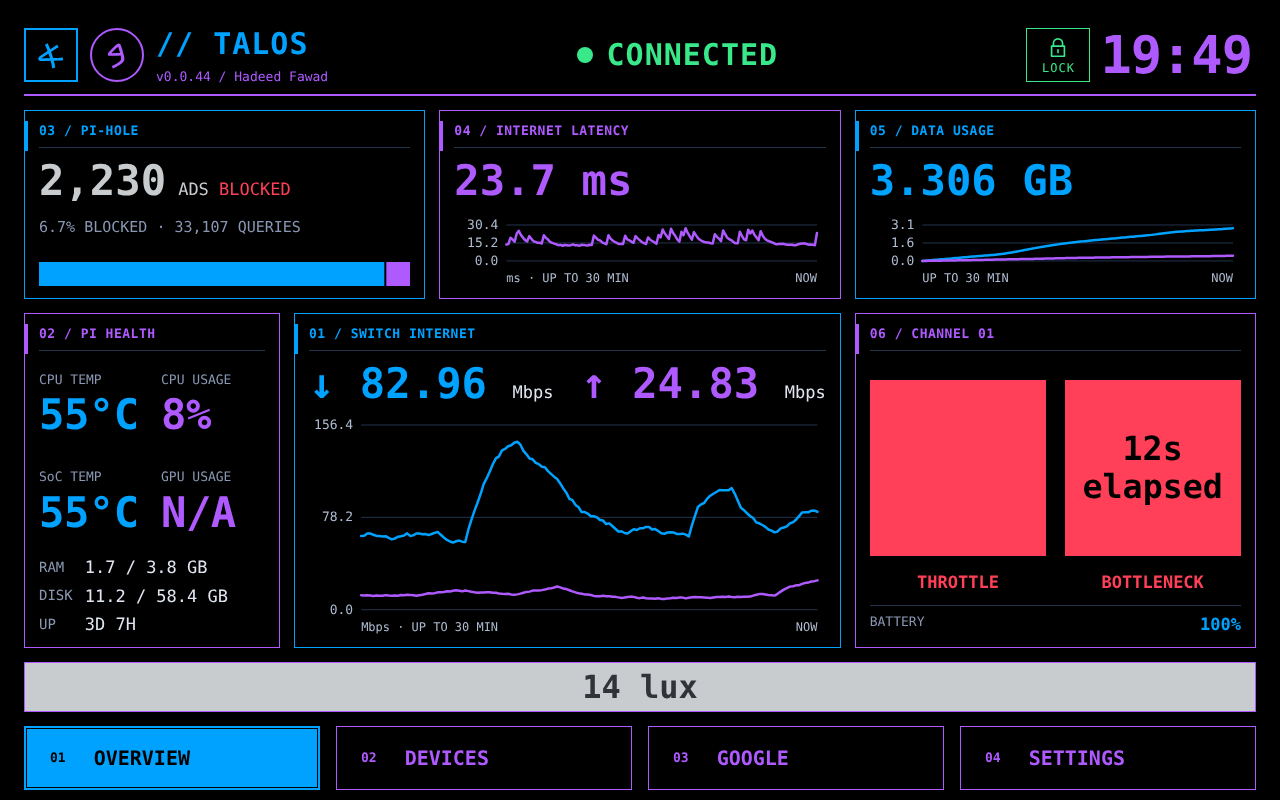
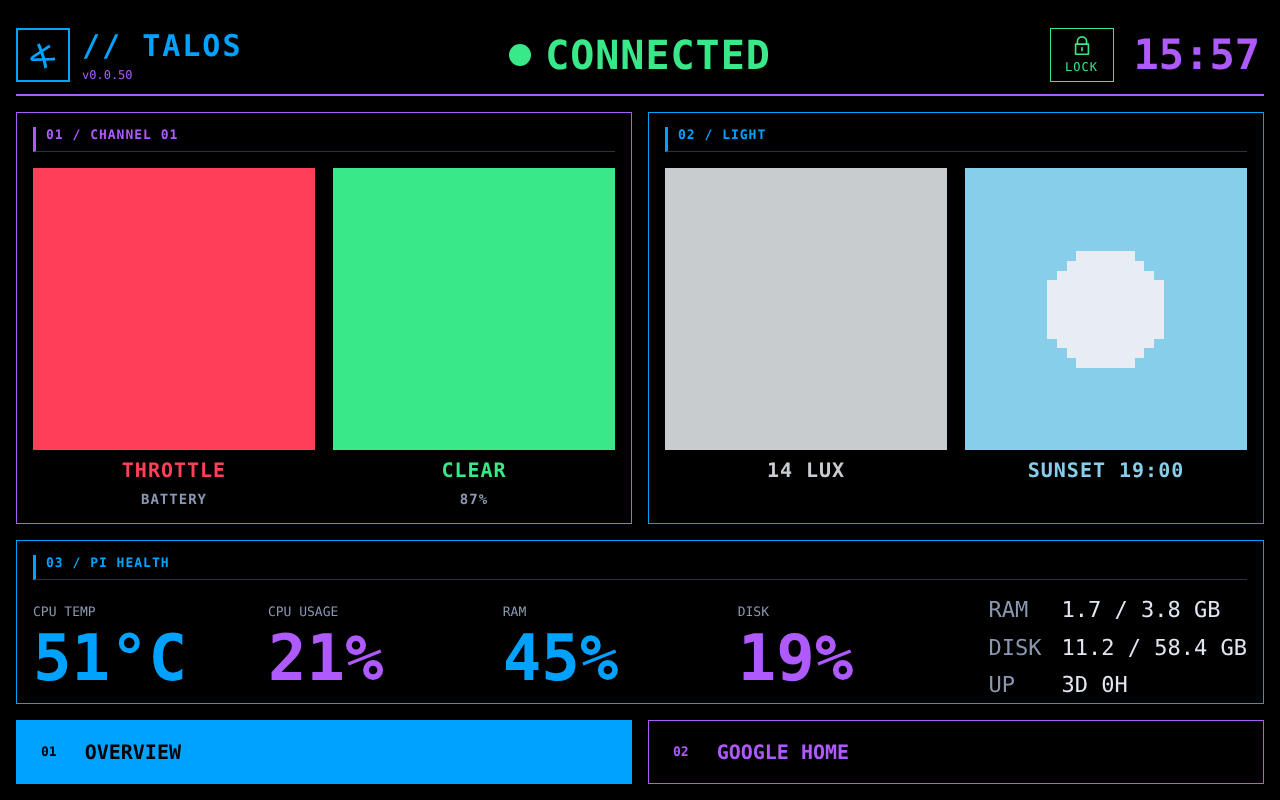
Add files via upload

diff --git a/README.md b/README.md
@@ -1,96 +1,59 @@
 # Talos
 
-Talos is a personal home hub I'm developing for my Raspberry Pi 4. It features a custom, cyberpunk-inspired interface designed to monitor my home network, manage devices, and bring different functions together in one place.
+A touchscreen home hub for a Raspberry Pi: live sensor status, system health, and a passcode lock, with Google Home one tap away. Built with the Python standard library and plain HTML, CSS and JavaScript, with no frameworks.
 
-The project is still in development, with more features and integrations planned, plans are being changed constantly.
+**[Live demo](https://h4d33d.github.io/REPO-NAME/static/)** (runs in your browser!)
 
 ![Talos Dashboard](images/talos-demo.gif)
 
+## Google Home integration
 
-I designed and programmed the interface using Python, HTML, CSS, and JavaScript. My goal was to create something functional while giving it a distinct visual style inspired by Cyberpunk 2077.
-Having completed Phantom Liberty recently, I was inspired to make talos. Talos reads data from port mirroring on a network switch. 
+The Pi's screen runs a full-screen GTK/WebKit window for the dashboard. Google Home runs as a separate Chromium app window, and a thin GTK layer-shell nav bar stays on top of it, so you can always get back to the dashboard.
 
-## What I used so far...
-- Pi 4
-- 7" Touch Screen Pi4 Case
-- Network Switch
-- Sonoff Gateway Adapter
-- Aqara Precense Sensor
+- **Preloaded:** Google Home opens in the background at start-up, so switching is instant.
+- **Minimised, not closed:** it keeps its state between visits.
+- **Idle return:** after a set time without a touch, Talos returns to the dashboard and locks. Touches are tracked as timestamps only, with no input content stored.
+- **Restart:** one button in the Quick Access menu closes the window and opens a fresh one.
+- **Window control:** `wlrctl` finds, focuses and minimises the window on Wayland (`app.py`).
 
-## What I've Built
+![Google Home Mock Up with the Talos nav bar](images/talos-google-home.png)
 
-- Custom dashboard and navigation
-- System monitoring and network information
-- Notifications and system controls
-- Raspberry Pi integration
-- Google Home access (Not embedded ;) )
+## Dashboard
 
-## Pictures
-
-### Main Dashboard
 ![Main Dashboard](images/talos-dashboard.png)
 
-One of my favorite designs I made was the Sensor Indicators and my lux bar. 
-This feature was implemented so that I could work with headphones, knowing if someone needs my attention from my office. 
-I believe solid colored indictors are a very underrated and underutilized way to communicate information.
+- **Channel 01:** two status squares from an Aqara FP300 presence sensor (motion, and presence held for 10 s or more) with its battery level
+- **Light:** hallway lux, and a sun or moon with the next sunrise or sunset
+- **Pi Health:** CPU temperature and usage, RAM, disk, uptime
+- **Lock:** passcode keypad, with the dashboard still live behind it
+- **Controls:** restart Google Home, fullscreen, restart or shut down the Pi, sleep clock
 
-Indicator 1 (Left) - Displays the sensor's state of motion. 
-| Indicator Color | Purpose | Display Name |
-|---|---|---|
-| Green | No updates in the last minute. | IDLE |
-| Yellow | Motion within the past minute. | CAUTION |
-| Red | Sensor is actively triggered. | THROTTLE |
+## How it works
 
-Indicator 2 (Right) - Displays the sensor's radar field. 
-| Indicator Color | Purpose | Display Name |
-|---|---|---|
-| Green | No updates in the last minute. | CLEAR |
-| Red | Sensor is actively triggered. | BOTTLENECK |
+```
+Zigbee sensor ──► zigbee2mqtt ──► MQTT ──► server.py ──► /api/status ──► browser page
+Linux /proc, /sys ─────────────────────────┘    ▲
+Sun position (location + time) ─────────────────┘
+```
 
-Illuminance Bar - Displays sensor's lux readings. 
-|Illuminance Bar | Color | Purpose |
-|---|---|---|
-| lux < 10 | Black | Hallway light is OFF. |
-| lux > 10 | White | Hallway light is ON. |
+- `server.py` listens to the sensor over MQTT, applies the status rules, and serves one JSON endpoint that the page polls once a second.
+- Retained (stored) MQTT messages give lux and battery at start-up but never count as motion.
+- Sunrise and sunset are calculated offline with the NOAA solar equations, with no API call.
+- The passcode is stored only as a salted PBKDF2-SHA256 hash. Five wrong tries start a 10-minute break, and the server refuses settings and Pi controls while locked.
+- Pi actions (restart, shut down, screen off) go through one fixed root helper that `sudo` allows only for those three commands.
+- The browser demo works because `demo.js` answers the same `/api/...` calls in the browser with simulated data.
+- Unit tests cover the sensor rules, sun maths, Pi health parsing and the lock.
 
-The display name is supposed to evoke some mystery, since I want to be the only one who understands what the hub is communicating. 
-That's why it reads like a network traffic issue, rather than sensors. 
+Full walkthrough: [CODEBASE.md](CODEBASE.md)
 
-!(images/dashboard.jpg)
+## Run it
 
-### System Controls
-![System Controls](images/system.png)
+Needs Python 3.9 or newer.
 
-### Google Home
-![System Controls](images/home.jpg)
+```bash
+python3 server.py --demo
+```
 
-The way I implemented Google Home wasn't thought to be embedded within my Python app; I can't do that. I simply have a Chromium window open without Chromium borders, set to a specific resolution and point. When I tap Google Home on the navigation bar, the Chromium window is brought to the front. 
+Then open http://127.0.0.1:8090. On a Pi: `sudo bash install.sh`. Tests: `python3 -m unittest discover -s tests -t .`
 
-### Other Features
-![Other Features](images/features.png)
-
-## What's Next
-
-- [ ] Homelab Integration
-- [ ] OLED Upgrade
-- [ ] 
-- [ ] 
-- [ ] 
-
-## The Name
-
-Talos takes its name from the bronze guardian of Greek mythology, known for protecting the island of Crete.
-
-I chose the name because I wanted the system to serve as a guardian and monitoring hub for my home.
-
-![Talos](images/talos.jpg)
-
----
-
-**Status:** Ongoing personal project.
-
-Having used Talos for 2 weeks, I can say I am fairly surprised at how useful and reliable it has become.
-Although Talos started as a wall-mounted hub, it has now become a dedicated display on my desk. 
-Sensor readings are accurate and translate closely to when the events occur. 
-I have now decided to return my 8-inch LCD display, for a bigger OLED. 
-I want the screen to fit the background/aesthetic more than an LCD can. 
+Raspberry Pi 4 · 1280×800 touchscreen · Zigbee USB coordinator · Aqara FP300
